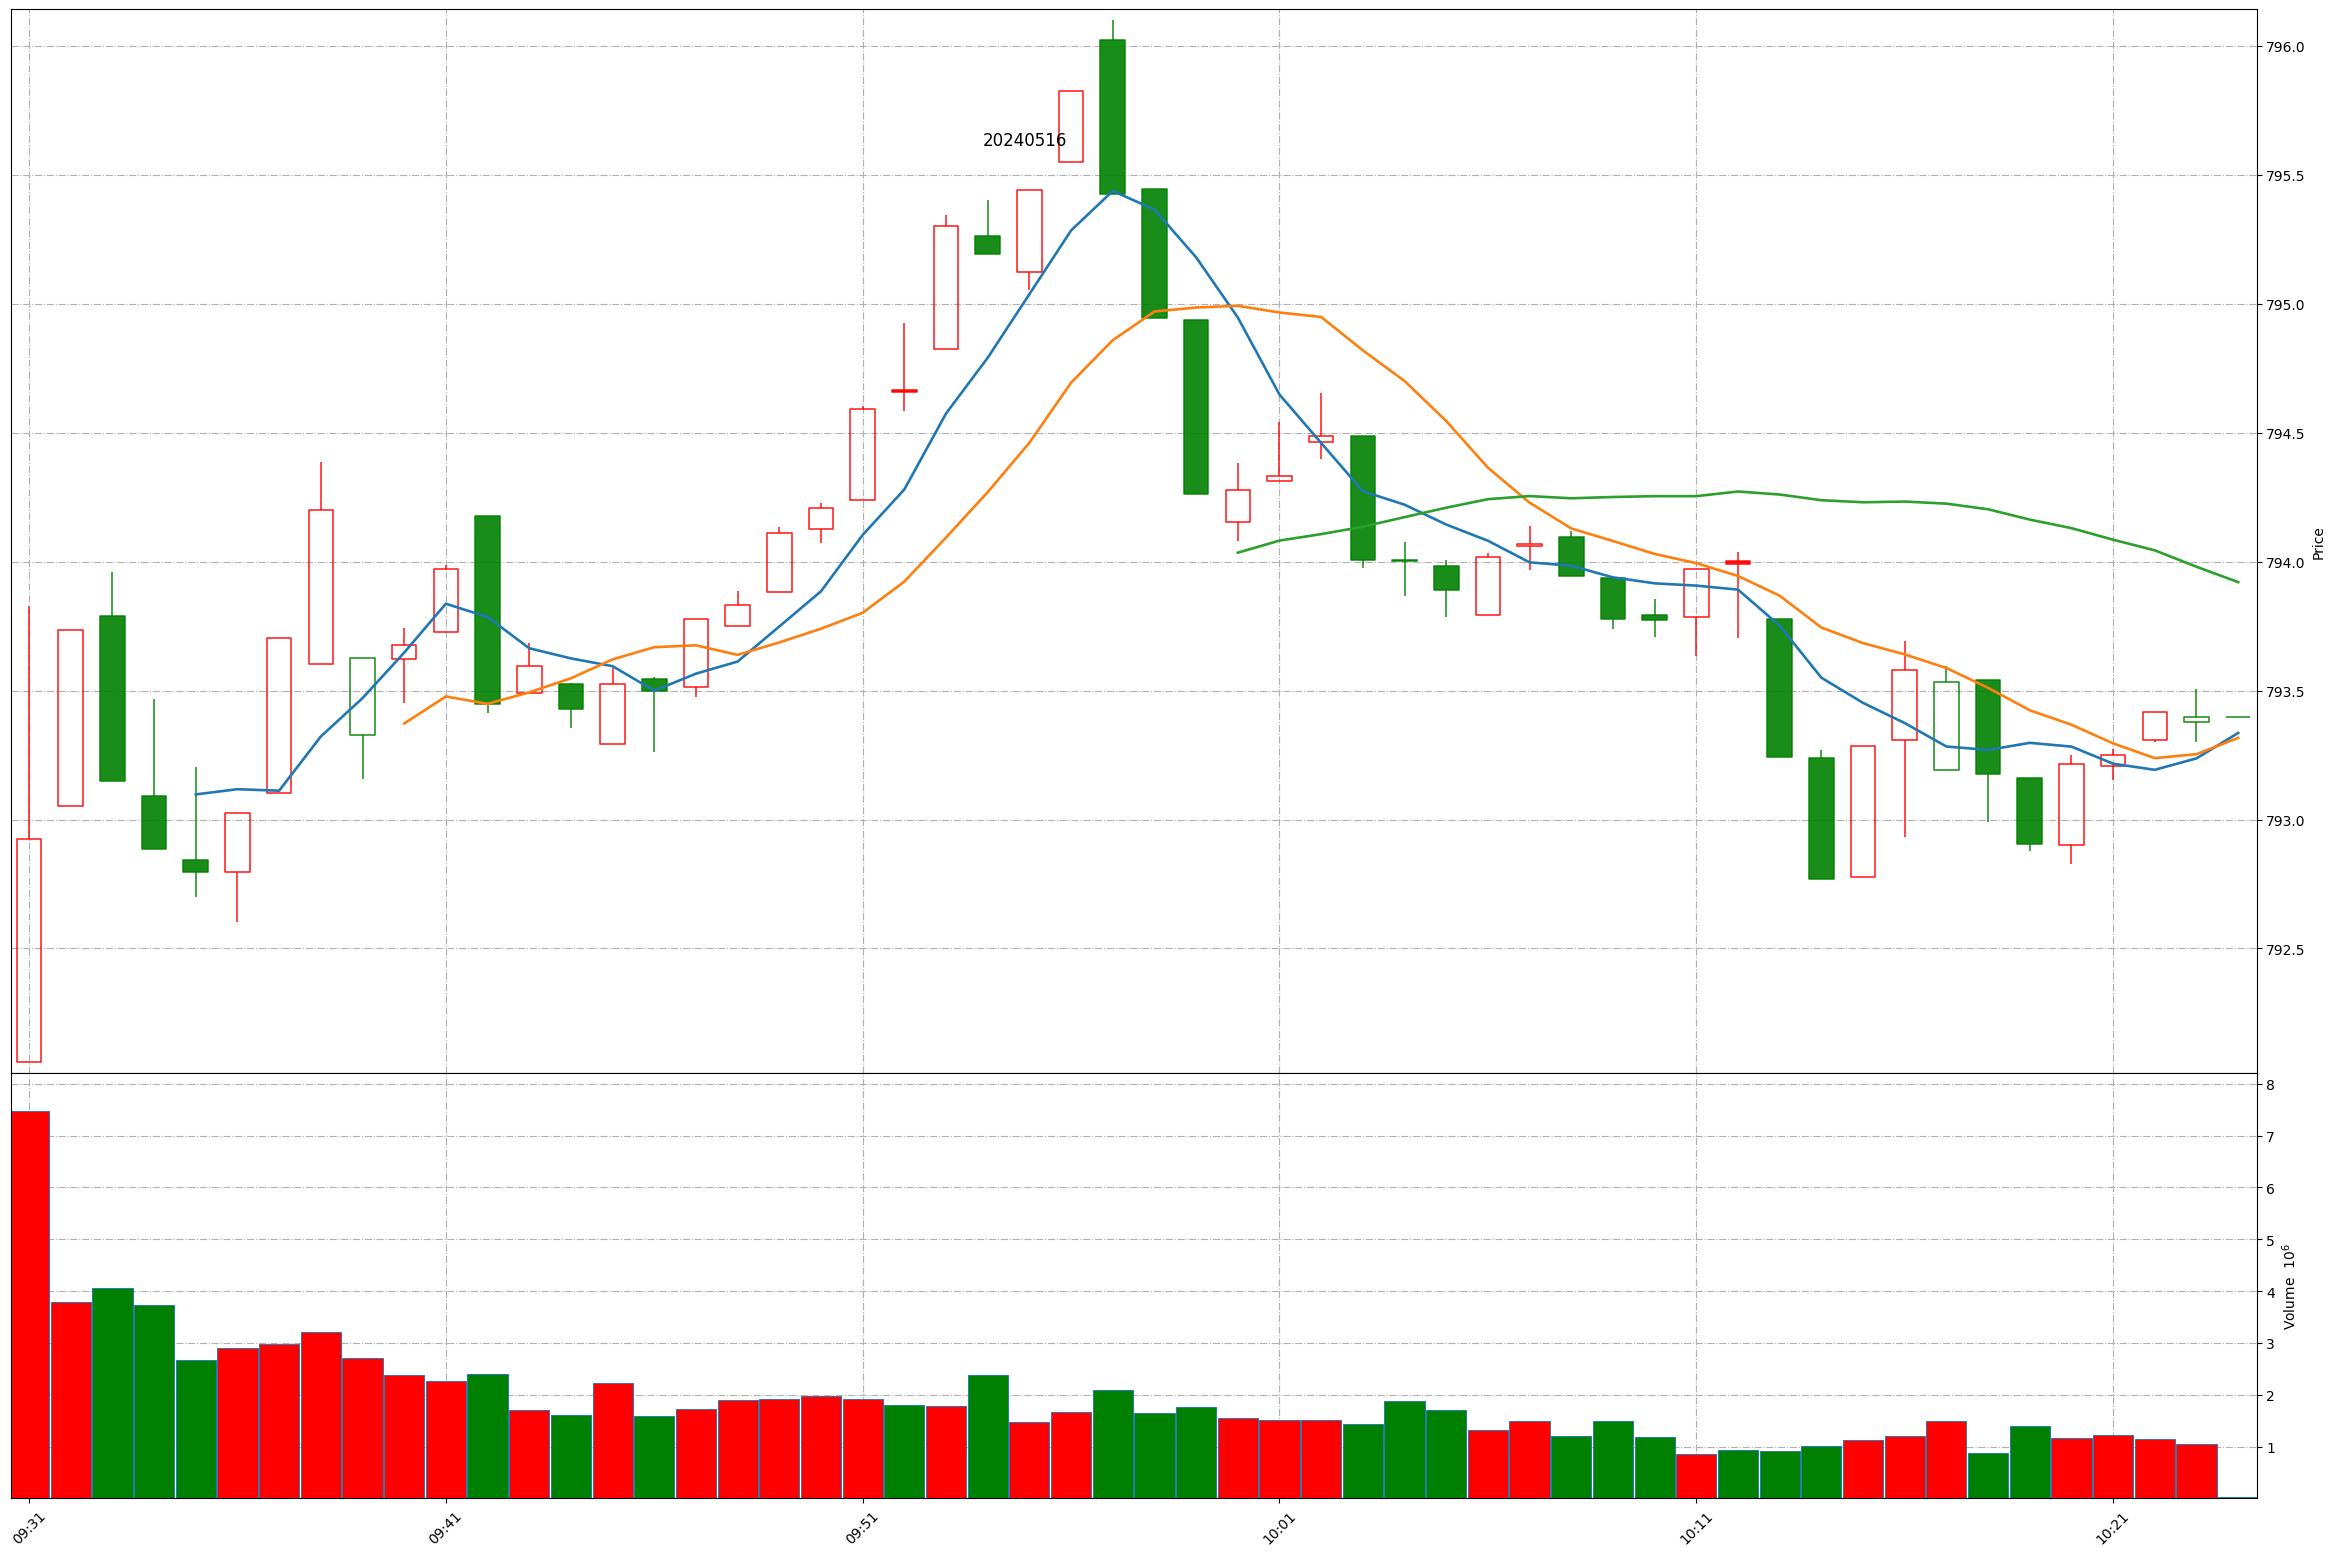
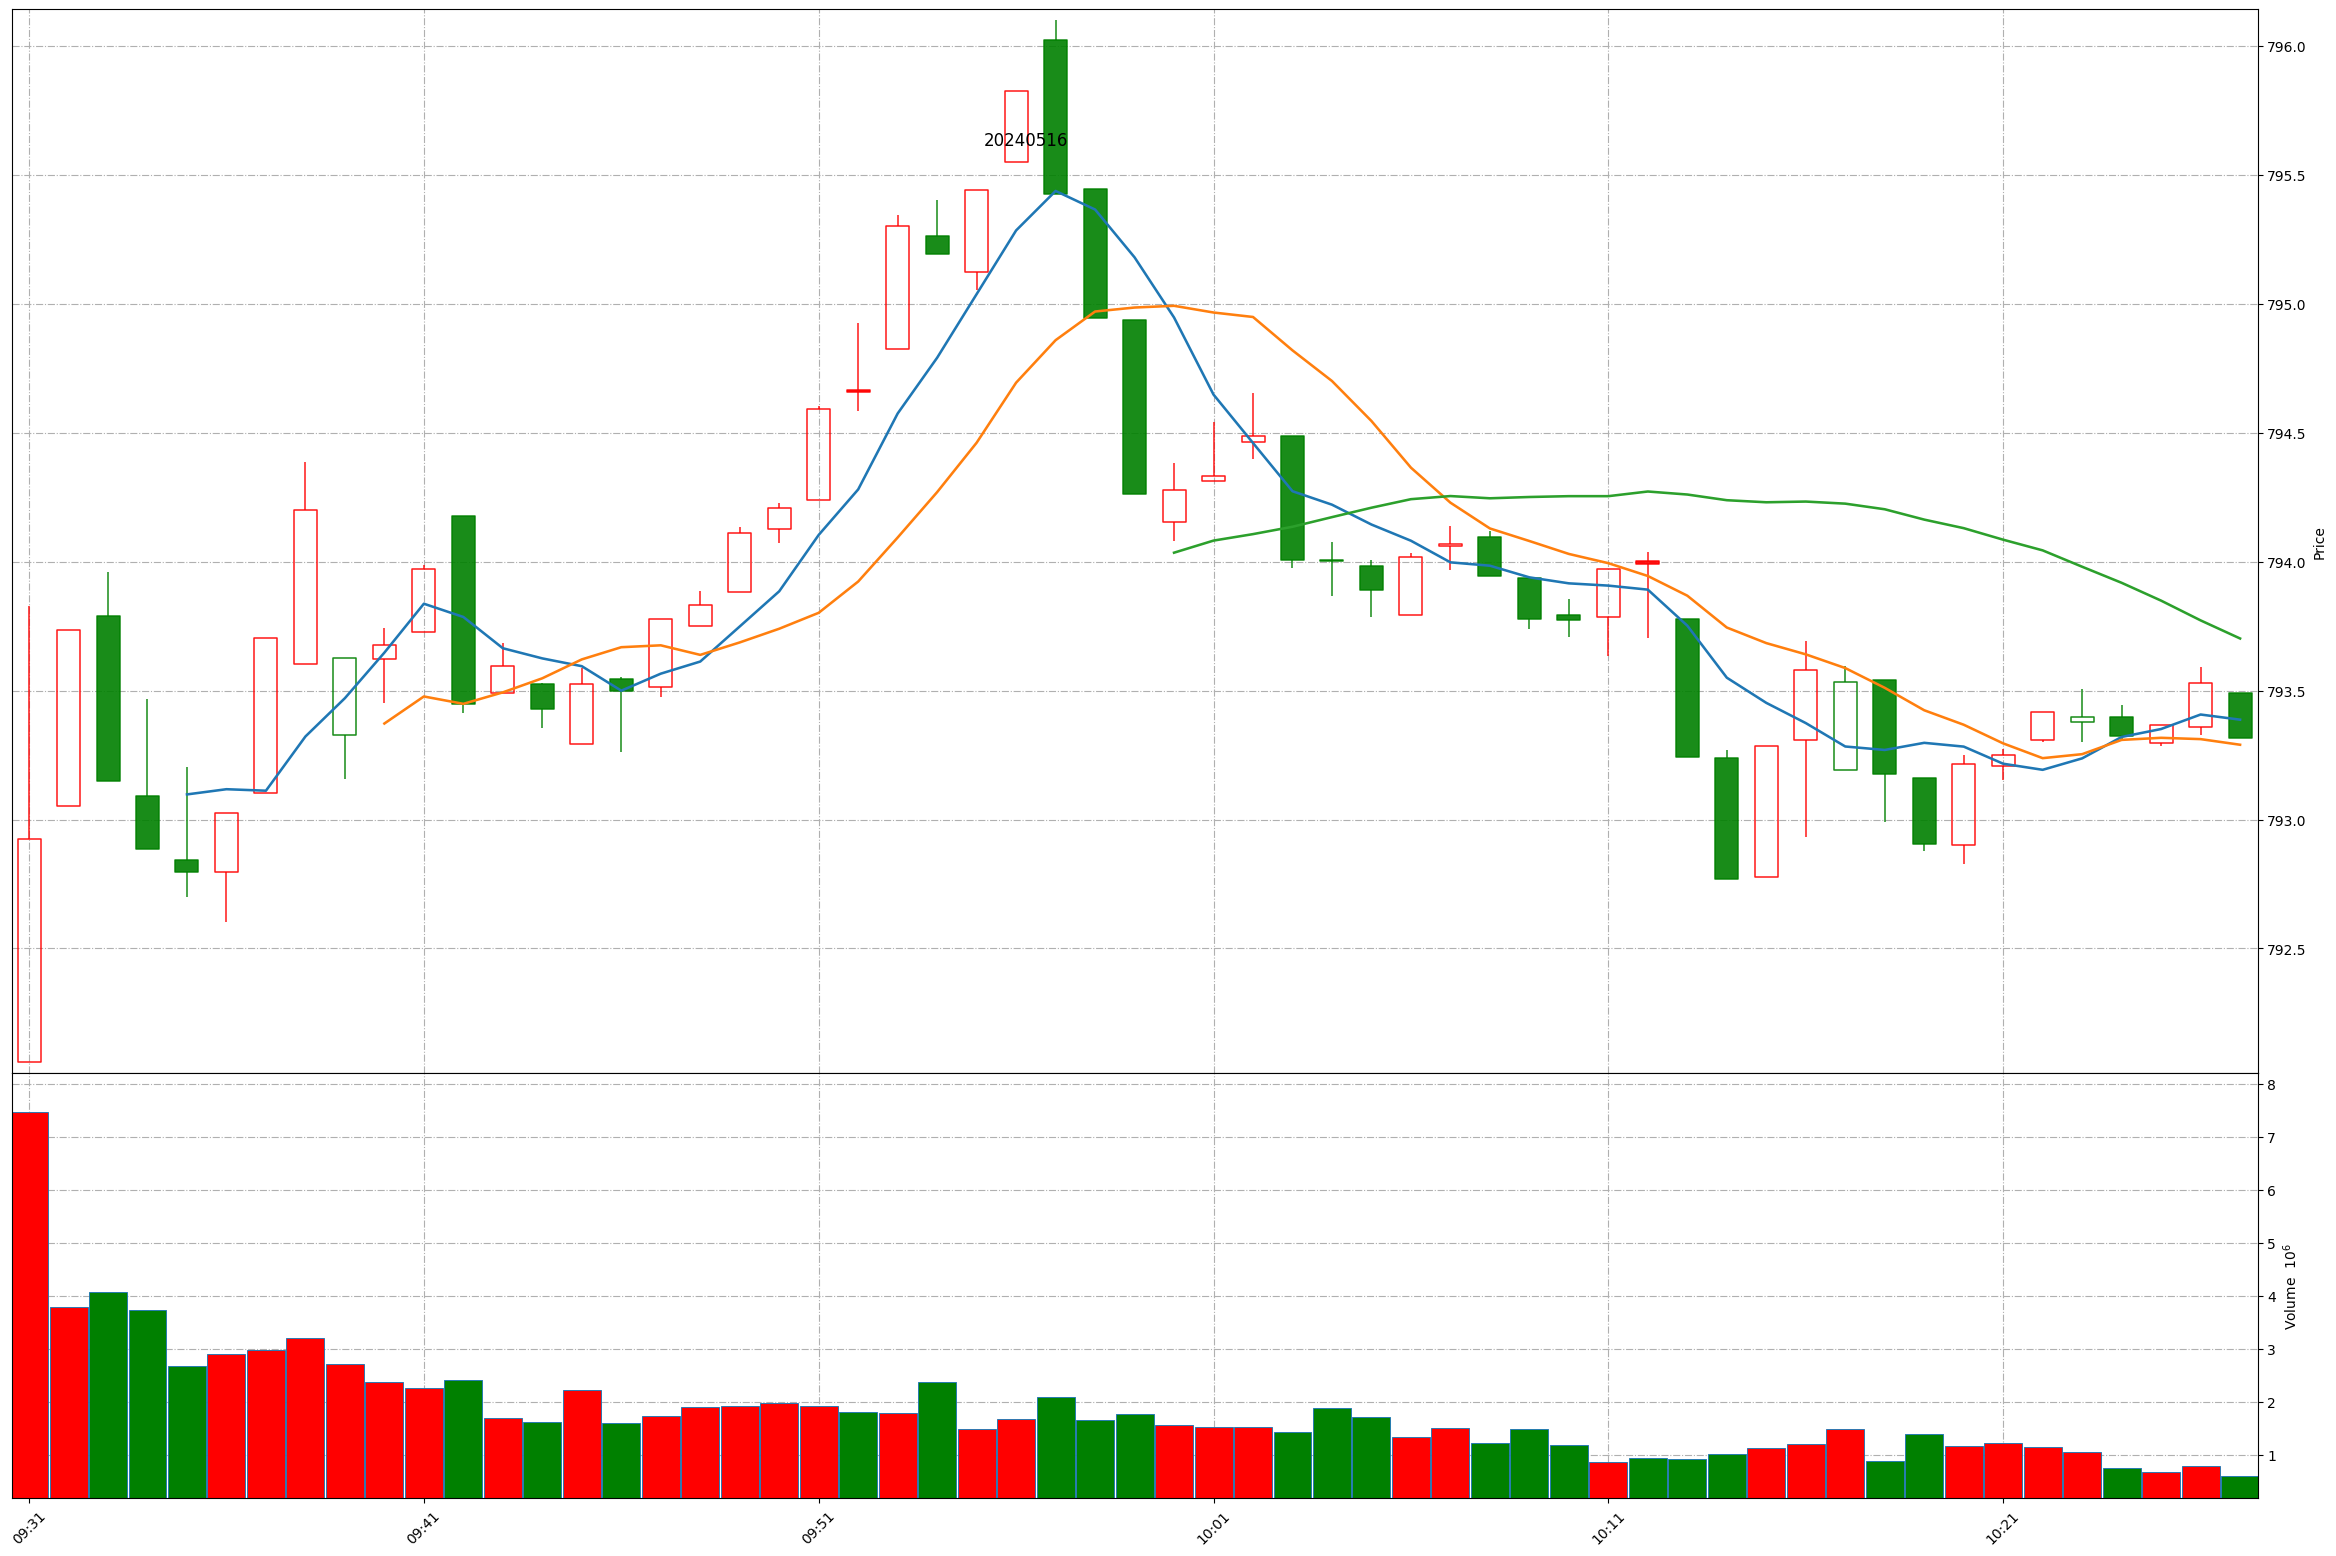
Github action update at 2024-05-16 10:26:40.

Changed region(s): [[0.1233, 0.0308, 0.9867, 0.5861], [0.0, 0.8329, 0.9867, 0.9871], [0.0308, 0.401, 0.1233, 0.5553]]

diff --git a/README.md b/README.md
@@ -1,11 +1,11 @@
 
 # Daily-A-share-market-quotes 每日 A 股指数（5min 更新）- 20240516
 
-### 上证指数 20240516 10:23
+### 上证指数 20240516 10:26
 ![](./fig/2024/5/20240516-sh000001.png)
 
-### 深证成指 20240516 10:23
+### 深证成指 20240516 10:26
 ![](./fig/2024/5/20240516-sz399001.png)
 
-### 北证50 20240516 10:23
+### 北证50 20240516 10:26
 ![](./fig/2024/5/20240516-bj899050.png)
